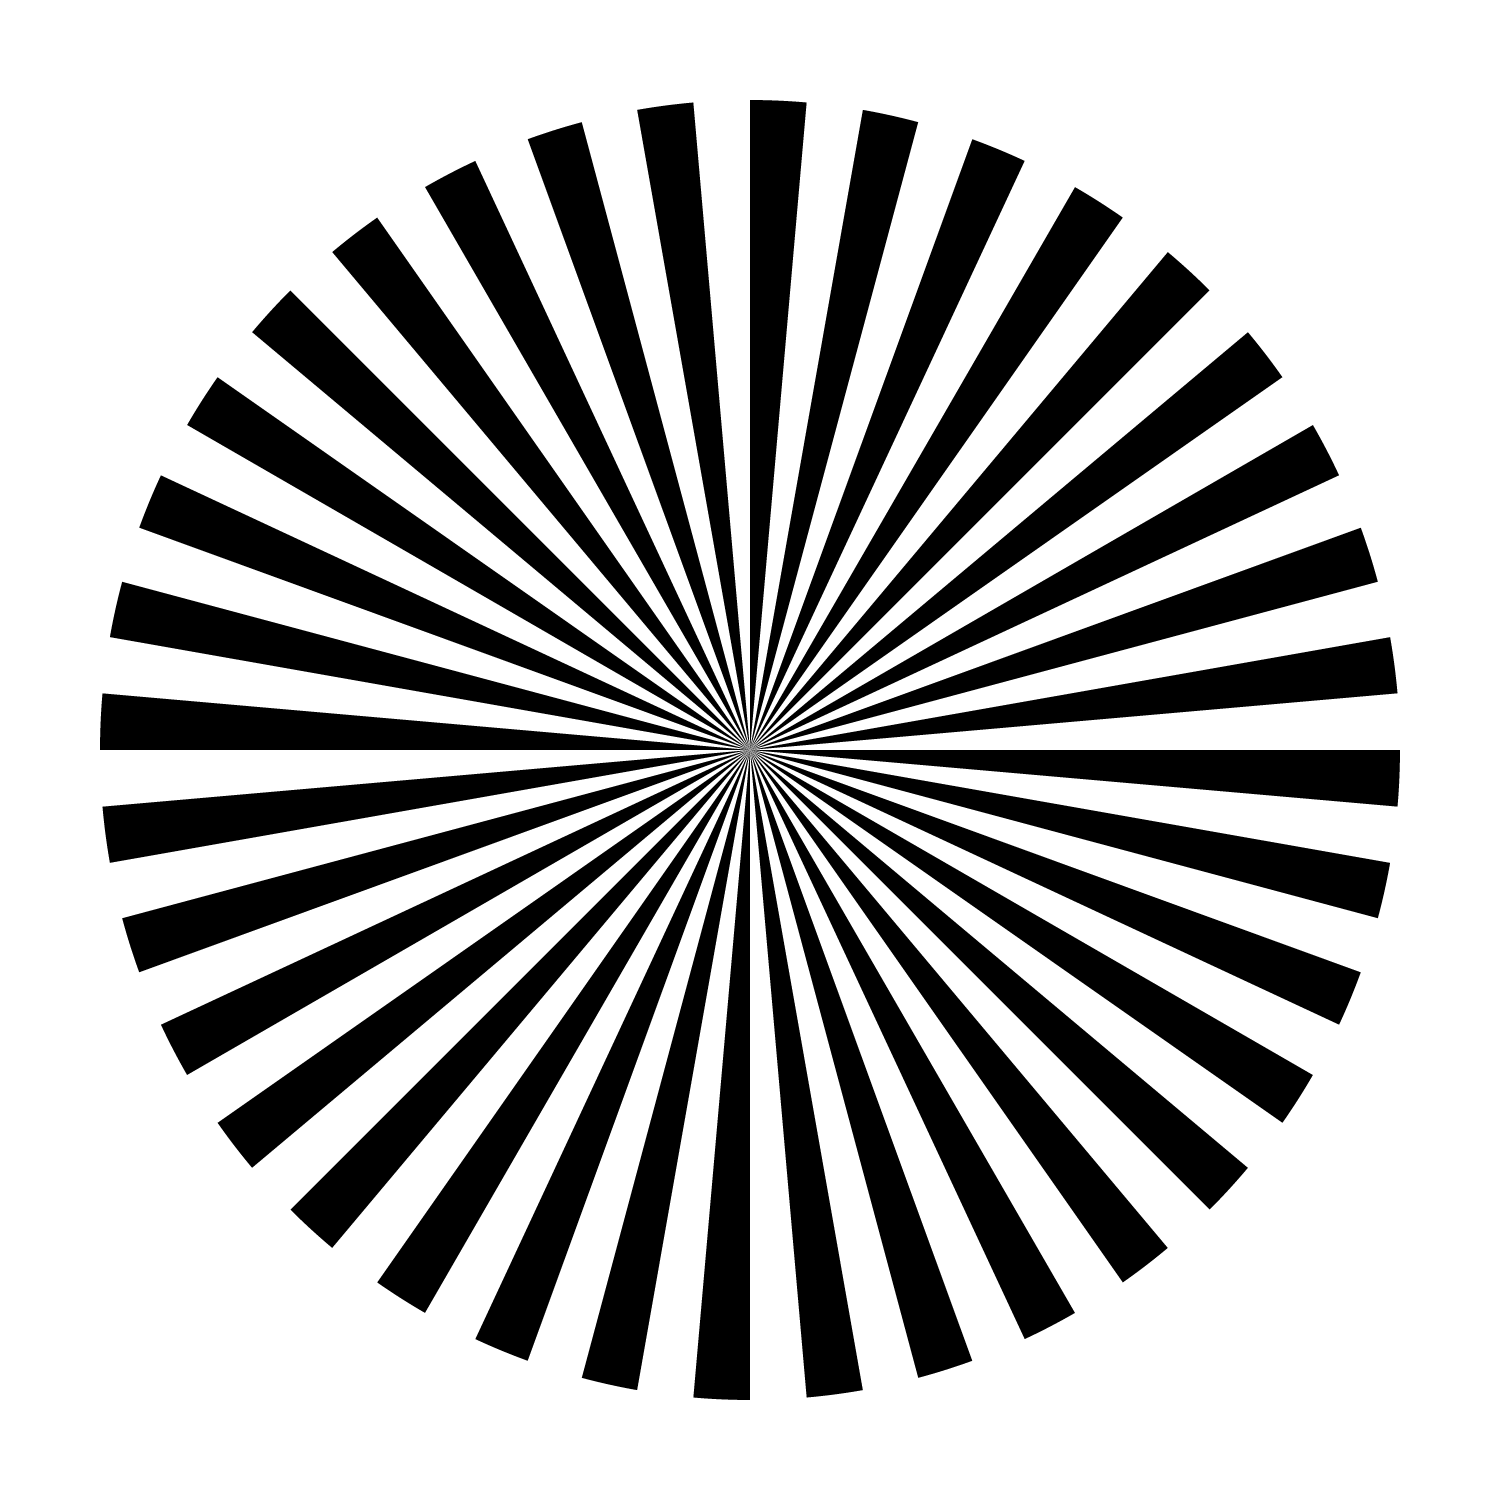
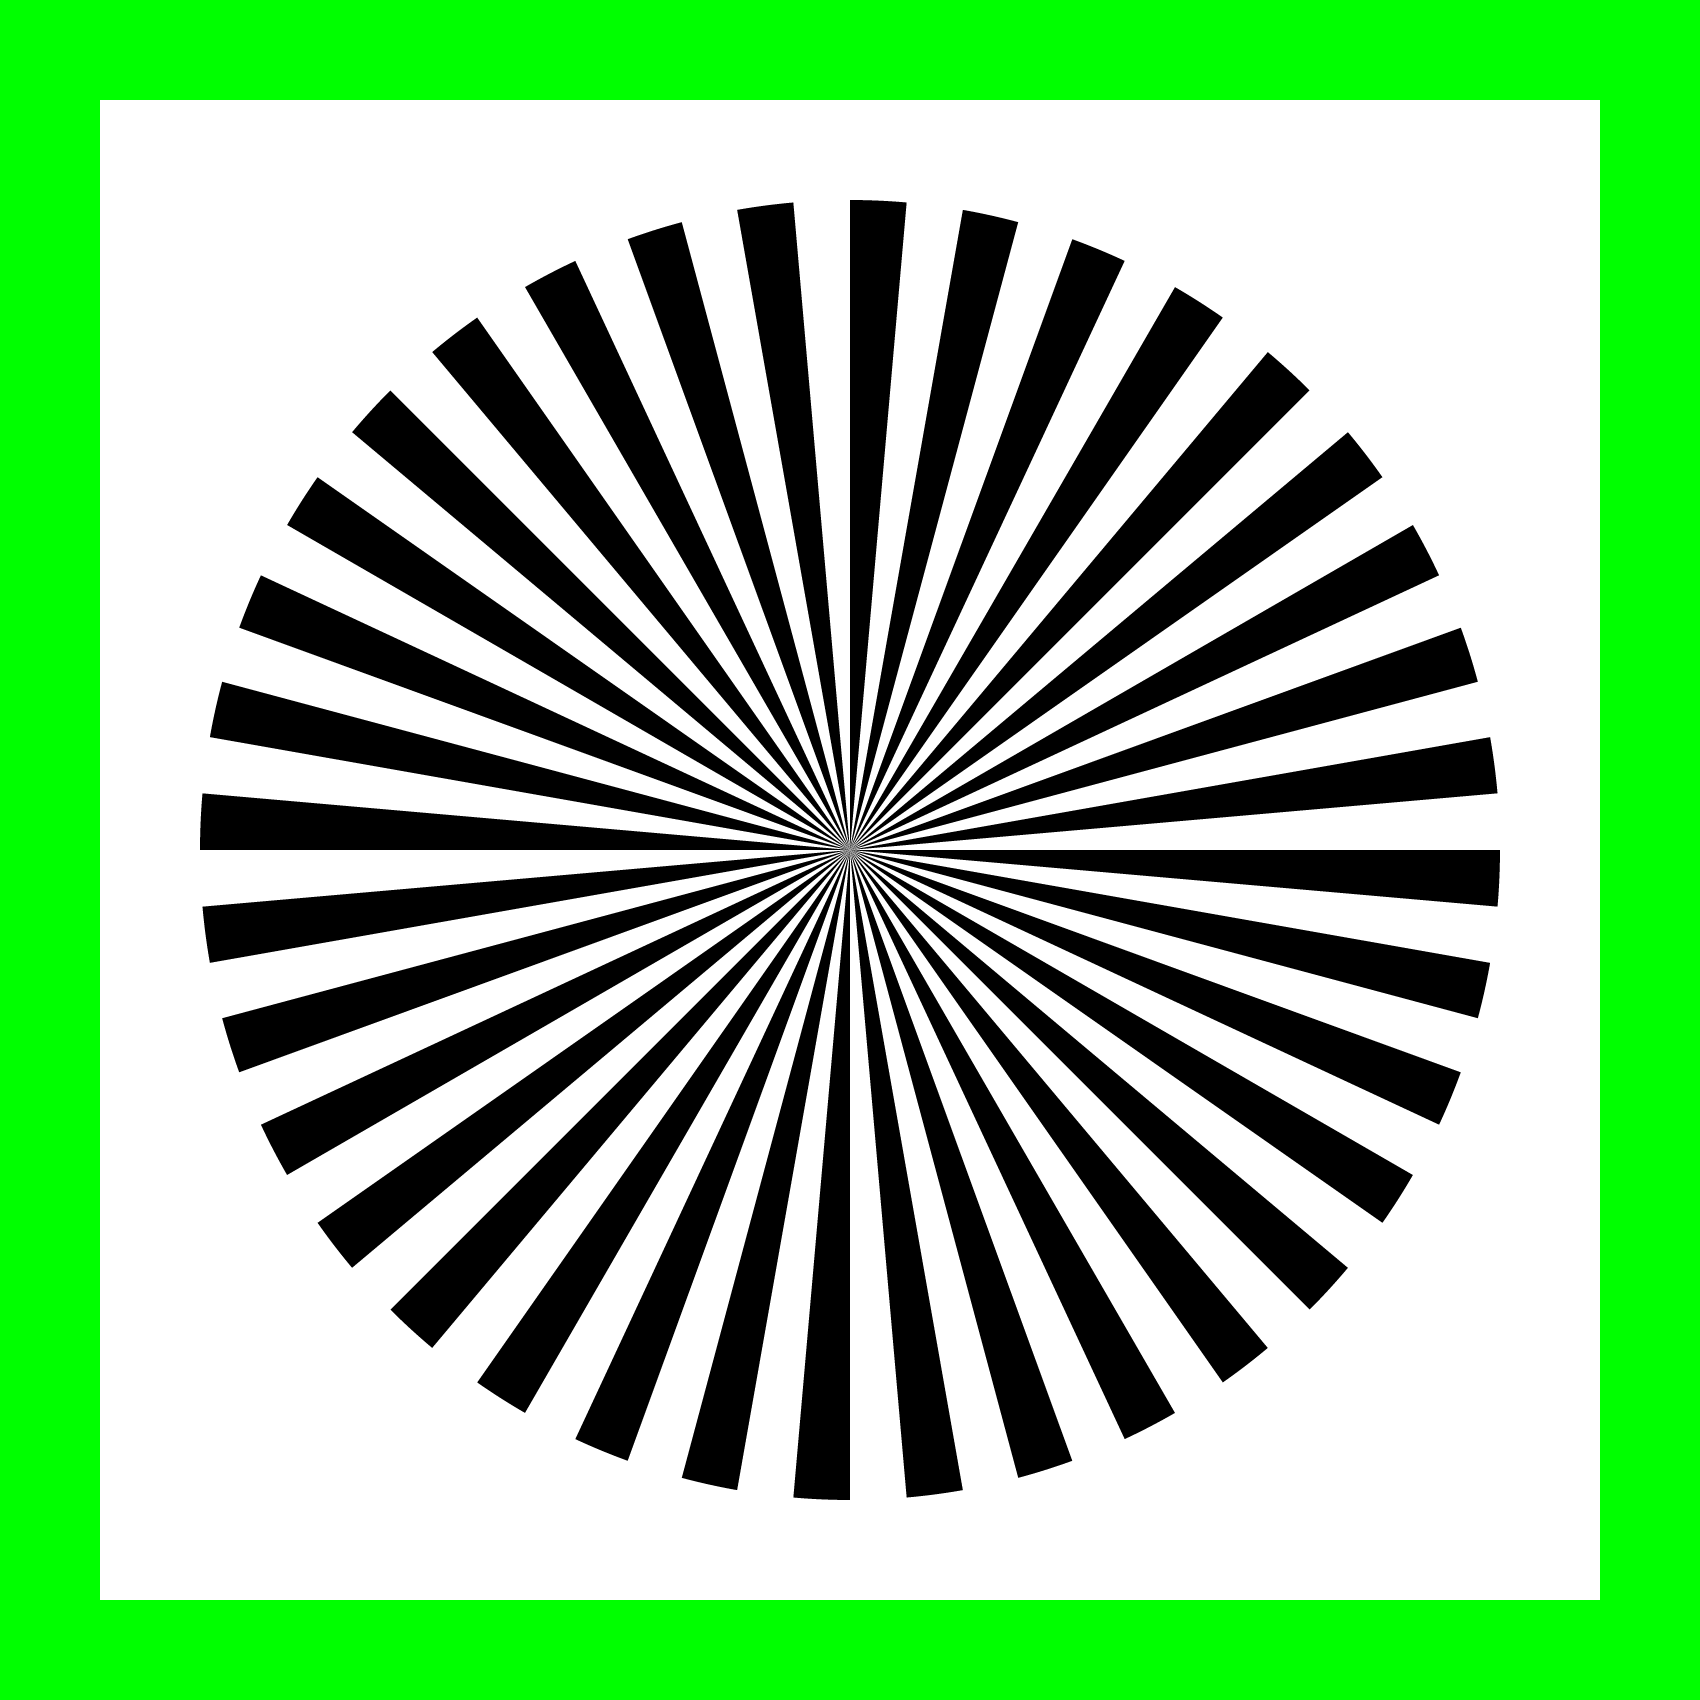
Added green frame to focus test

diff --git a/verification_scripts/best_focus.py b/verification_scripts/best_focus.py
@@ -6,6 +6,72 @@ import tkinter as tk
 from tkinter import filedialog, simpledialog
 from pathlib import Path
 
+def detect_green_roi(image, margin):
+
+    # Convert to HSV
+    hsv_image = cv2.cvtColor(image, cv2.COLOR_BGR2HSV)
+
+    # Define green (hue, saturation, value)
+    lower_green = np.array([35, 50, 40])
+    upper_green = np.array([90, 255, 255])
+
+    # Create black-and-white image "green_mask"
+    # Accepted pixels = white
+    # Pixels not in range = black
+    green_mask = cv2.inRange(
+        hsv_image,
+        np.array([35, 50, 40]),
+        np.array([90, 255, 255])
+    )
+
+    # Contours = list of detected boundaries. 
+    # Each contours[i] is an array of (x, y) points tracing the outline of one white region
+        # Contours[0] = Outer boundary
+        # Contours[1] = Inner boundary
+    # Hierarchy[0][i] = [next, previous, first_child, parent] for contours[i]
+    contours, hierarchy = cv2.findContours( 
+        green_mask, 
+        cv2.RETR_TREE, # Find every contour and construct the complete parent–child hierarchy
+        cv2.CHAIN_APPROX_SIMPLE # Compresses each contour by removing unnecessary points along straight lines
+    )
+
+    # Check if any contour relationships were found
+    if hierarchy is None:
+        raise SystemExit("No green frame detected")
+
+    # Gets rid of unnecessary outer dimension
+    hierarchy = hierarchy[0]
+
+
+    inside_contours = []
+    # enumerate returns both index and contour information
+    # i recieves index and loops for every index in contours[]
+    # contour recieves contour[i] information
+    for i, contour in enumerate(contours):
+        # Checks parent of contour. If parent is not -1, must be an inside contour
+        if hierarchy[i][3] != -1:
+            inside_contours.append(contour)
+
+    if not inside_contours:
+        raise SystemExit("Green frame is not closed")
+
+    # Find inside contour with largest area
+    inside_contour = max(
+        inside_contours,
+        key=cv2.contourArea   # Compare enclosed area instead of coordinate array
+    )
+
+    # x = left edge of rectangle
+    # y = top edge of rectangle
+    x, y, width, height = cv2.boundingRect(inside_contour)
+
+    # Remove 6 pixel margin from each edge
+    x += margin
+    y += margin
+    width -= 2*margin
+    height -= 2*margin
+
+    return x, y, width, height
 
 # Open and hide root window
 root = tk.Tk()
@@ -49,9 +115,6 @@ for i in range(image_count):
        continue
     print(f"File opened: {Path(image_path).name}")
 
-    # Greyscale image 
-    gray_image = cv2.cvtColor(image, cv2.COLOR_BGR2GRAY)
-
     # Ask for thread offset
     thread_offset_mm = simpledialog.askfloat(
         "User input",
@@ -61,6 +124,15 @@ for i in range(image_count):
         print("No user input, next image")
         continue
     offsets.append(thread_offset_mm)
+
+    # Find green frame and crop image to inside of frame
+    x, y, width, height = detect_green_roi(image, 5)
+    crop = image[
+    y : y+height,
+    x : x+width
+    ]
+
+    gray_image = cv2.cvtColor(crop, cv2.COLOR_BGR2GRAY)
 
     # Gaussian blur to reduce noise                # Kernel dimensions
     smoothed_image = cv2.GaussianBlur(gray_image, (3, 3), 0)

diff --git a/target_scripts/siemens.py b/target_scripts/siemens.py
@@ -1,8 +1,35 @@
 import cv2
 import numpy as np
 from pathlib import Path
-from functions.image_tools import array_to_image
 
+def array_to_image(array, image_name):
+
+    # Save array as image file
+    saved = cv2.imwrite(f"targets/{image_name}.png", array)
+    if not saved:
+        raise SystemExit("Image could not be saved")
+    
+    # Show image
+    cv2.imshow("image", array)
+
+    # Show indefinitely until key is pressed (0 = no time limit)
+    cv2.waitKey(0)
+    cv2.destroyAllWindows()
+
+def add_green_border(image, margin):
+
+    image = cv2.cvtColor(
+    image,
+    cv2.COLOR_GRAY2BGR
+    )
+
+    image = cv2.copyMakeBorder(
+        image,
+        margin, margin, margin, margin,
+        cv2.BORDER_CONSTANT,
+        value=(0, 255, 0)
+    )
+    return image
 
 # Image settings
 image_size_px = 1500
@@ -48,6 +75,9 @@ star = cv2.resize(
     (image_size_px, image_size_px),
     interpolation=cv2.INTER_AREA
 )
+
+# Add green border
+star = add_green_border(star, margin_px)
 
 # Save and display image
 array_to_image(star, "siemens_star")

diff --git a/functions/image_tools.py b/functions/image_tools.py
@@ -181,3 +181,17 @@ def fitted_edge_positions(image, edge_positions):
 
     return fitted_edge_positions
 
+def add_green_border(image, margin):
+
+    image = cv2.cvtColor(
+    image,
+    cv2.COLOR_GRAY2BGR
+    )
+
+    image = cv2.copyMakeBorder(
+        image,
+        margin, margin, margin, margin,
+        cv2.BORDER_CONSTANT,
+        value=(0, 255, 0)
+    )
+    return image
